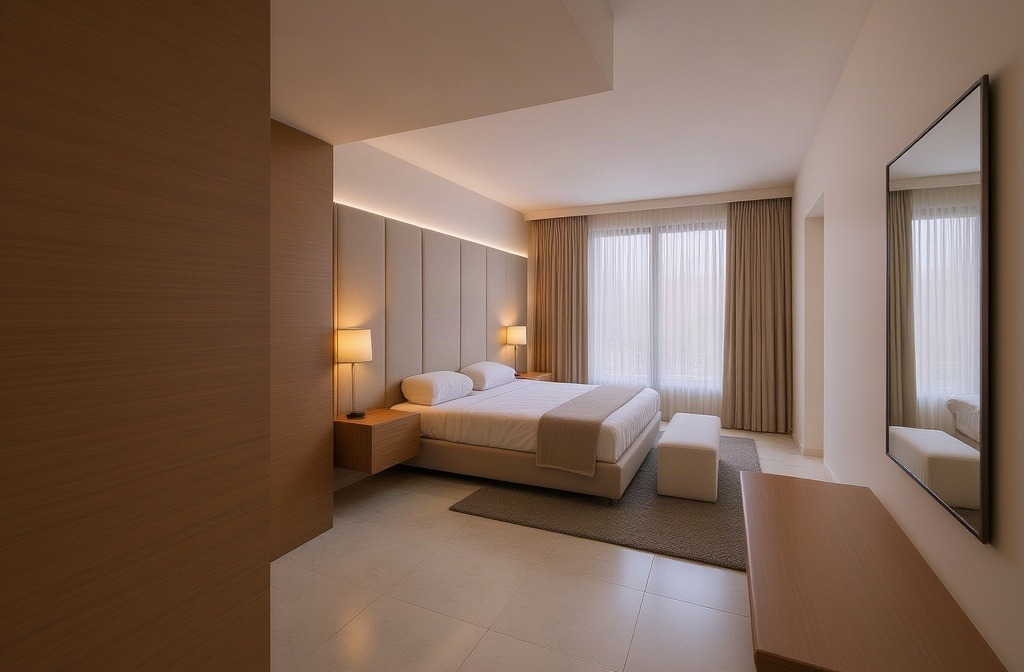
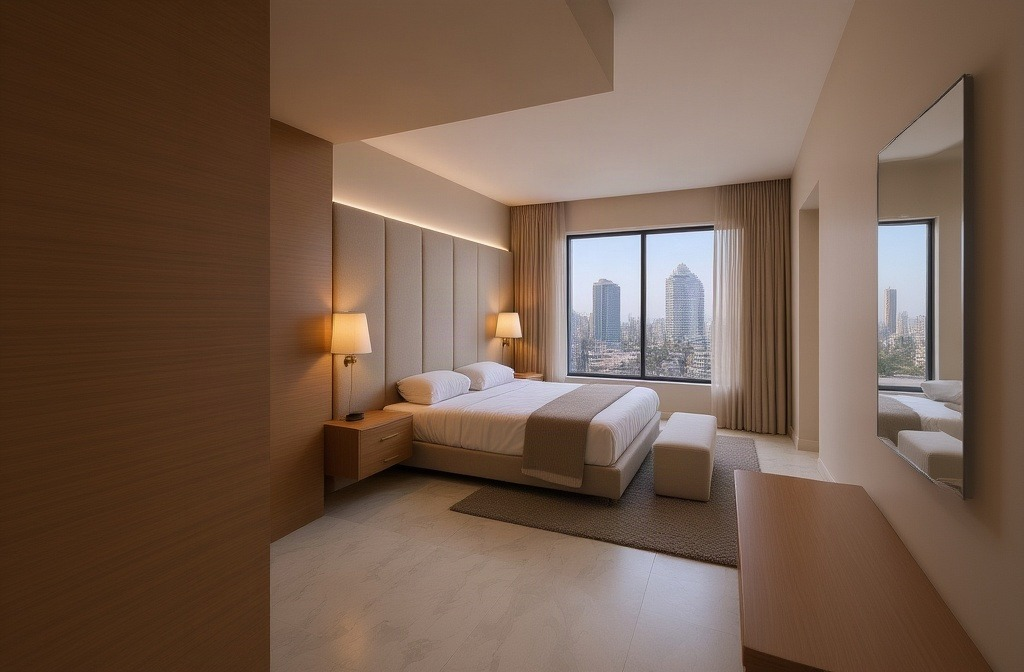
Remove invented balconies: windows with 90 cm sills, curtains drawn open
Claude-Session: https://claude.ai/code/session_01Y66GuRywBsTRh1cQJ3PYHH

Changed region(s): [[0.25, 0.0, 1.0, 1.0], [0.5312, 0.0, 0.625, 0.1562], [0.9688, 0.9688, 1.0, 1.0]]

diff --git a/design/render/geometry.py b/design/render/geometry.py
@@ -13,8 +13,8 @@ L2Z = 3.50
 # kind: 'door', 'window', 'open', 'glass'
 L01_WALLS = [
     # exterior
-    (0.0, 0.0, 12.7, 0.2, [(7.8, 10.3, 0.45, 2.55, 'window')]),
-    (0.0, 0.2, 0.2, 8.08, [(2.2, 4.95, 0.45, 2.55, 'window')]),
+    (0.0, 0.0, 12.7, 0.2, [(7.8, 10.3, 0.9, 2.4, 'window')]),
+    (0.0, 0.2, 0.2, 8.08, [(2.2, 4.95, 0.9, 2.4, 'window')]),
     (0.0, 7.9, 11.2, 8.08, []),
     (11.0, 4.35, 11.2, 7.9, [(5.0, 6.2, 0.9, 2.4, 'window')]),
     (11.2, 4.12, 12.7, 4.35, []),
@@ -31,11 +31,11 @@ L01_COLUMNS = [(5.15, 1.3, 5.35, 1.85)]
 
 L02_WALLS = [
     # exterior
-    (0.0, 0.0, 20.0, 0.2, [(8.2, 10.6, 0.45, 2.55, 'window')]),
+    (0.0, 0.0, 20.0, 0.2, [(8.2, 10.6, 0.9, 2.4, 'window')]),
     (0.0, 0.2, 0.2, 8.08, []),
     (0.0, 7.9, 20.0, 8.08, [(5.45, 6.45, 0.0, 2.3, 'door'), (8.5, 10.2, 0.9, 2.4, 'window'),
                             (11.3, 12.1, 1.7, 2.3, 'window')]),
-    (19.8, 0.2, 20.0, 7.9, [(1.95, 3.45, 0.6, 2.5, 'window'), (4.6, 6.0, 0.6, 2.5, 'window')]),
+    (19.8, 0.2, 20.0, 7.9, [(1.95, 3.45, 0.9, 2.4, 'window'), (4.6, 6.0, 0.9, 2.4, 'window')]),
     # stair enclosure
     (0.2, 5.5, 5.2, 5.7, []),
     (5.2, 3.0, 5.35, 7.0, [(3.3, 4.2, 0.0, 2.3, 'door')]),

diff --git a/design/render/scene.py b/design/render/scene.py
@@ -631,6 +631,8 @@ def curtain(x0, y0, x1, y1, z0, z1, m=None, name='curt'):
     L_ = abs(x1 - x0) if horiz else abs(y1 - y0)
     n = max(4, int(L_ / 0.12))
     for i in range(n):
+        if 0.22 * n < i < 0.78 * n:
+            continue  # curtains drawn open at both sides; window and sill stay visible
         off = 0.03 * math.sin(i * math.pi / 2)
         if horiz:
             xa = x0 + i * (x1 - x0) / n
